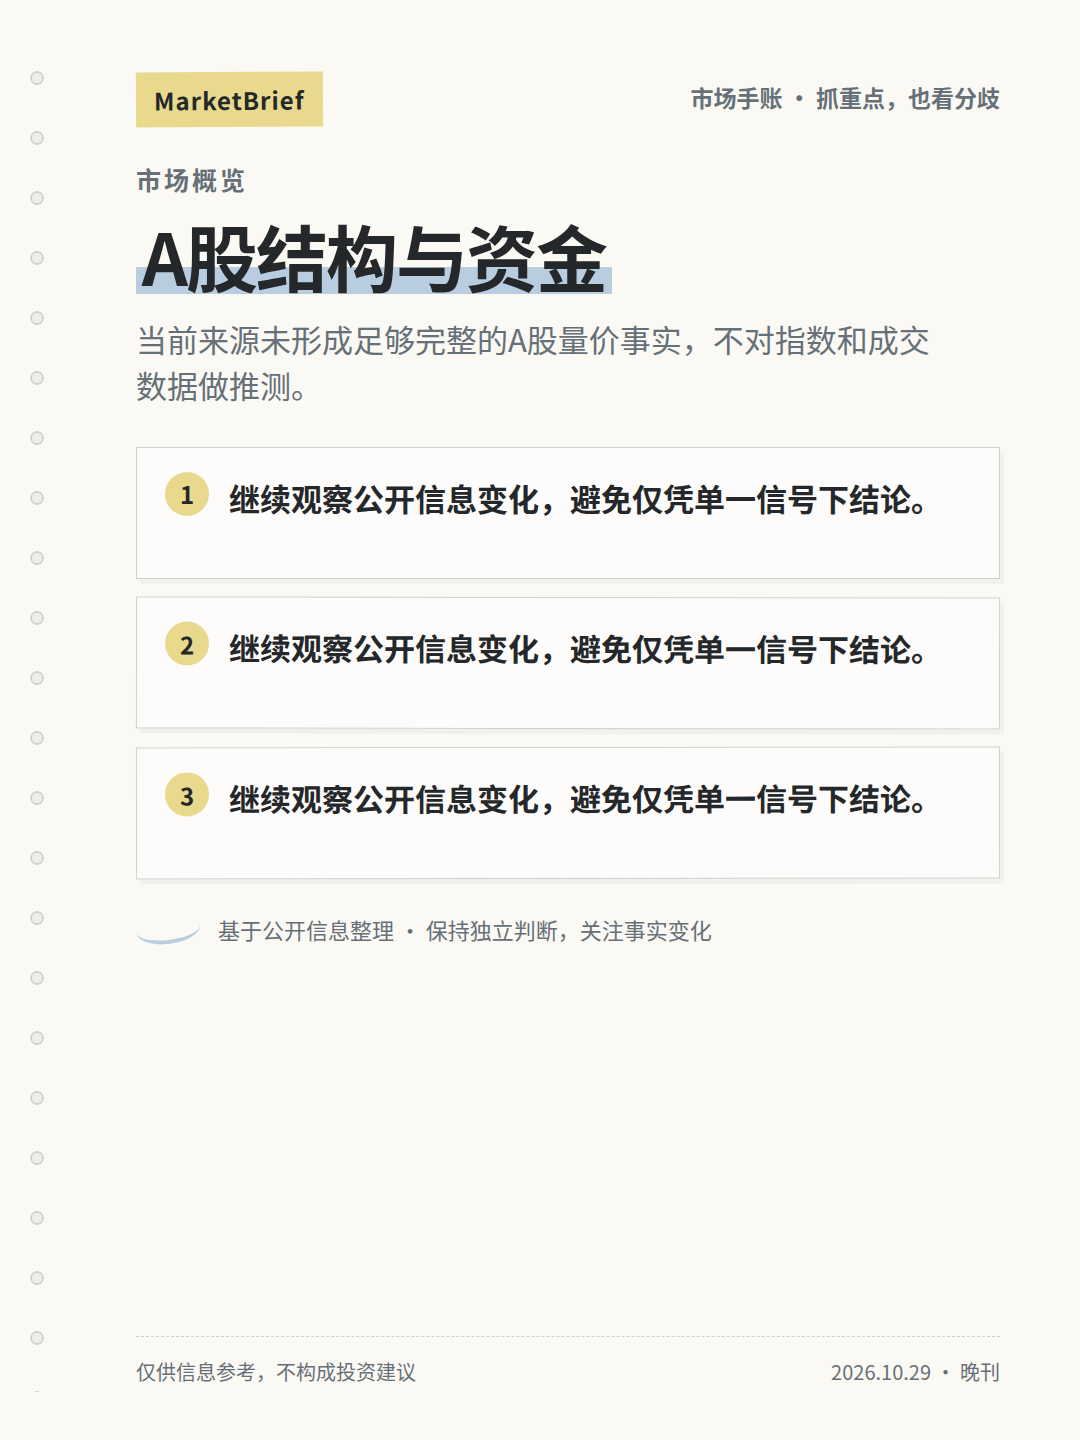
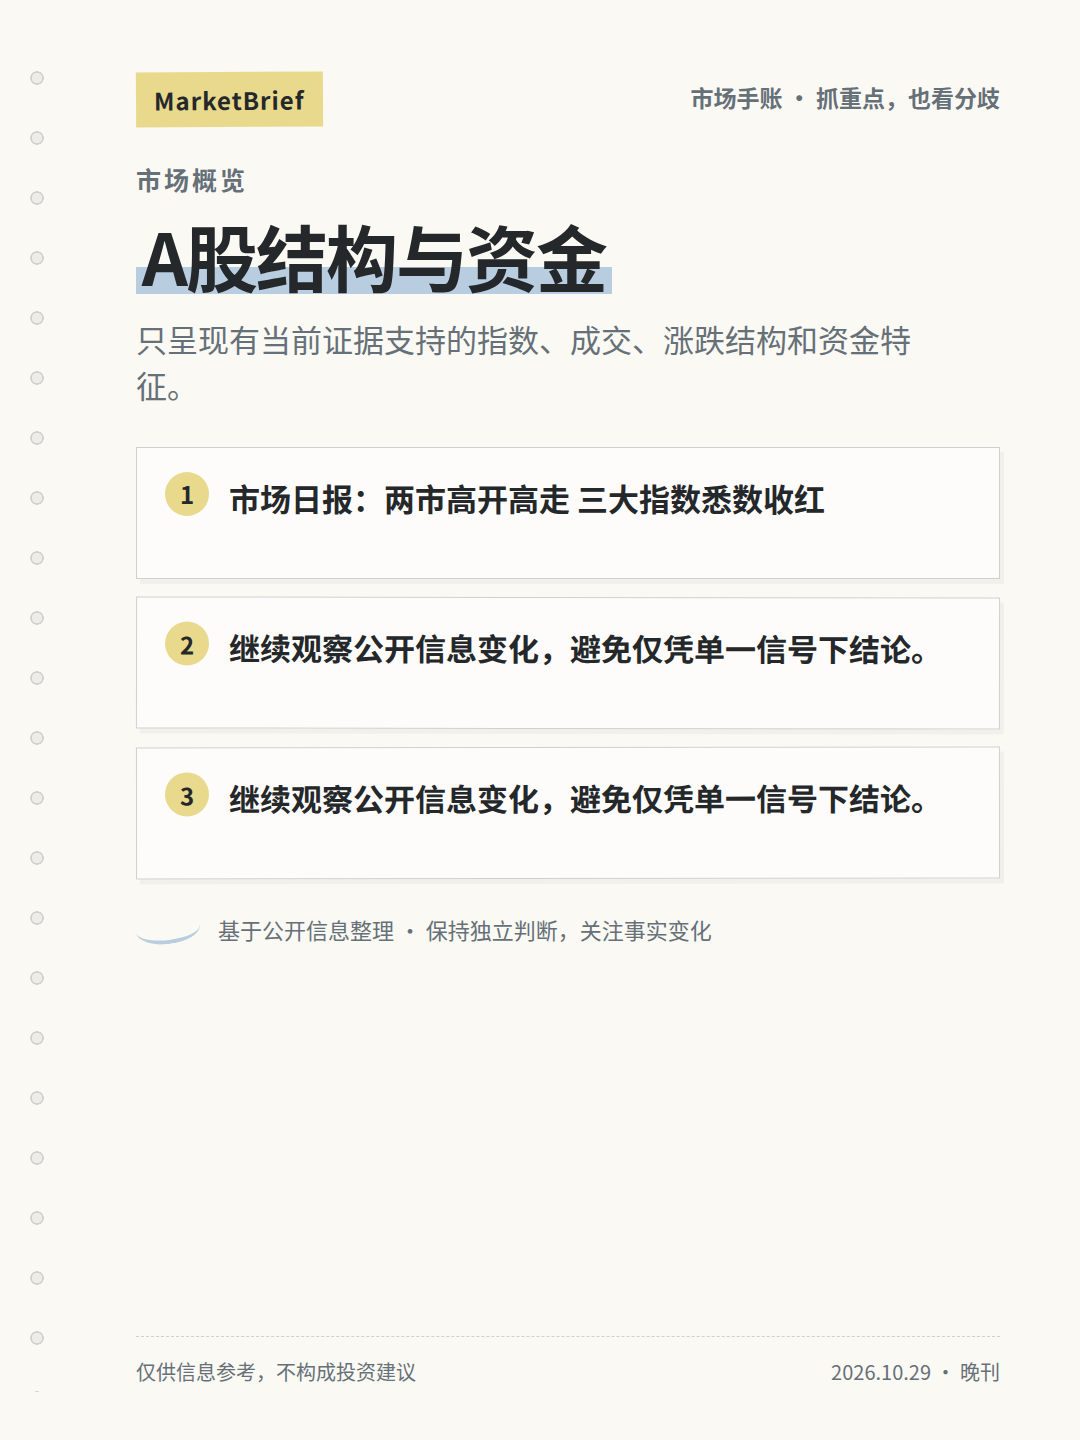
chore: MarketBrief: publish official-source notebook edition (rebased, retention-pruned)

Changed region(s): [[0.2139, 0.3125, 0.8556, 0.375], [0.1222, 0.2188, 0.8556, 0.2812]]

diff --git a/output/marketbrief/2026-10-29/pm/2026-10-29-pm-01.html b/output/marketbrief/2026-10-29/pm/2026-10-29-pm-01.html
@@ -26,9 +26,9 @@ footer{position:absolute;z-index:1;left:136px;right:80px;bottom:54px;border-top:
 <body><main data-layout-type="card" data-visual-style="notebook" data-visual-tone="serious">
 <div class="top"><span class="brand">MarketBrief</span><span class="tagline">市场手账 · 抓重点，也看分歧</span></div>
 <div class="kicker">今日简报</div>
-<h1><span>招财日报、美联储10月货币政策成焦点</span></h1>
-<div class="sub">晚刊基于3份有效来源分析，当前重点为招财日报、美联储10月货币政策。仅保留时效合格的公开信息，事实、研究观点与市场情绪分开呈现。</div>
-<div class="notes"><section class="note"><b>1</b><p>招财日报</p></section><section class="note"><b>2</b><p>晨会纪要</p></section><section class="note"><b>3</b><p>美联储10月货币政策会议点评与展望：按兵不动下鹰意未消，12月加息概率上升</p></section></div>
+<h1><span>乍暖还寒时、美联储议息会议成焦点</span></h1>
+<div class="sub">晚刊基于3份有效来源分析，当前重点为乍暖还寒时、美联储议息会议。仅保留时效合格的公开信息，事实、研究观点与市场情绪分开呈现。</div>
+<div class="notes"><section class="note"><b>1</b><p>乍暖还寒时，波动易放大</p></section><section class="note"><b>2</b><p>2026年10月份美联储议息会议点评：加息暂停信息中性，等待地缘局势发展的更多信号</p></section><section class="note"><b>3</b><p>市场日报：两市高开高走 三大指数悉数收红</p></section></div>
 <div class="margin"><span class="sketch"></span><span>基于公开信息整理 · 保持独立判断，关注事实变化</span></div>
 <footer><span>仅供信息参考，不构成投资建议</span><span>2026.10.29 · 晚刊</span></footer>
 </main></body></html>

diff --git a/output/marketbrief/2026-10-29/pm/2026-10-29-pm-03.html b/output/marketbrief/2026-10-29/pm/2026-10-29-pm-03.html
@@ -27,8 +27,8 @@ footer{position:absolute;z-index:1;left:136px;right:80px;bottom:54px;border-top:
 <div class="top"><span class="brand">MarketBrief</span><span class="tagline">市场手账 · 抓重点，也看分歧</span></div>
 <div class="kicker">市场概览</div>
 <h1><span>A股结构与资金</span></h1>
-<div class="sub">当前来源未形成足够完整的A股量价事实，不对指数和成交数据做推测。</div>
-<div class="notes"><section class="note"><b>1</b><p>继续观察公开信息变化，避免仅凭单一信号下结论。</p></section><section class="note"><b>2</b><p>继续观察公开信息变化，避免仅凭单一信号下结论。</p></section><section class="note"><b>3</b><p>继续观察公开信息变化，避免仅凭单一信号下结论。</p></section></div>
+<div class="sub">只呈现有当前证据支持的指数、成交、涨跌结构和资金特征。</div>
+<div class="notes"><section class="note"><b>1</b><p>市场日报：两市高开高走 三大指数悉数收红</p></section><section class="note"><b>2</b><p>继续观察公开信息变化，避免仅凭单一信号下结论。</p></section><section class="note"><b>3</b><p>继续观察公开信息变化，避免仅凭单一信号下结论。</p></section></div>
 <div class="margin"><span class="sketch"></span><span>基于公开信息整理 · 保持独立判断，关注事实变化</span></div>
 <footer><span>仅供信息参考，不构成投资建议</span><span>2026.10.29 · 晚刊</span></footer>
 </main></body></html>

diff --git a/output/marketbrief/2026-10-29/pm/2026-10-29-pm-02.html b/output/marketbrief/2026-10-29/pm/2026-10-29-pm-02.html
@@ -28,7 +28,7 @@ footer{position:absolute;z-index:1;left:136px;right:80px;bottom:54px;border-top:
 <div class="kicker">全球市场</div>
 <h1><span>今晚外部变量</span></h1>
 <div class="sub">只保留当前时效窗口内、已有公开信息支持的海外市场与宏观线索。</div>
-<div class="notes"><section class="note"><b>1</b><p>美联储10月货币政策会议点评与展望：按兵不动下鹰意未消，12月加息概率上升</p></section><section class="note"><b>2</b><p>2026年10月FOMC会议点评：10月FOMC：静待中期选举结果</p></section><section class="note"><b>3</b><p>宏观日报：美联储传“鸽”声，关注“繁荣”的开启</p></section></div>
+<div class="notes"><section class="note"><b>1</b><p>2026年10月份美联储议息会议点评：加息暂停信息中性，等待地缘局势发展的更多信号</p></section><section class="note"><b>2</b><p>10月FOMC会议点评：再探沃什底色</p></section><section class="note"><b>3</b><p>10月美联储议息会议点评：美联储维持利率不变，年内加息预期仍强</p></section></div>
 <div class="margin"><span class="sketch"></span><span>基于公开信息整理 · 保持独立判断，关注事实变化</span></div>
 <footer><span>仅供信息参考，不构成投资建议</span><span>2026.10.29 · 晚刊</span></footer>
 </main></body></html>

diff --git a/output/marketbrief/2026-10-29/pm/2026-10-29-pm-06.html b/output/marketbrief/2026-10-29/pm/2026-10-29-pm-06.html
@@ -28,7 +28,7 @@ footer{position:absolute;z-index:1;left:136px;right:80px;bottom:54px;border-top:
 <div class="kicker">风险提示</div>
 <h1><span>后续变量仍需确认</span></h1>
 <div class="sub">只保留来源自身限制和当前证据中的风险项，不额外推演。</div>
-<div class="notes"><section class="note"><b>1</b><p>美联储10月货币政策会议点评与展望：按兵不动下鹰意未消，12月加息概率上升</p></section><section class="note"><b>2</b><p>继续观察公开信息变化，避免仅凭单一信号下结论。</p></section><section class="note"><b>3</b><p>继续观察公开信息变化，避免仅凭单一信号下结论。</p></section></div>
+<div class="notes"><section class="note"><b>1</b><p>乍暖还寒时，波动易放大</p></section><section class="note"><b>2</b><p>10月美联储议息会议点评：美联储维持利率不变，年内加息预期仍强</p></section><section class="note"><b>3</b><p>工业母机行业深度报告：市场持续增长，政策及技术推动行业发展</p></section></div>
 <div class="margin"><span class="sketch"></span><span>基于公开信息整理 · 保持独立判断，关注事实变化</span></div>
 <footer><span>仅供信息参考，不构成投资建议</span><span>2026.10.29 · 晚刊</span></footer>
 </main></body></html>

diff --git a/output/marketbrief/2026-10-29/pm/2026-10-29-pm-04.html b/output/marketbrief/2026-10-29/pm/2026-10-29-pm-04.html
@@ -28,7 +28,7 @@ footer{position:absolute;z-index:1;left:136px;right:80px;bottom:54px;border-top:
 <div class="kicker">热点追踪</div>
 <h1><span>主线与事件交叉验证</span></h1>
 <div class="sub">优先采用官方与研究信息，社区热度只作为辅助信号。</div>
-<div class="notes"><section class="note"><b>1</b><p>关于重大经营合同中标的公告</p></section><section class="note"><b>2</b><p>关于2026年前三季度计提信用减值损失的公告</p></section><section class="note"><b>3</b><p>2026年三季度报告</p></section></div>
+<div class="notes"><section class="note"><b>1</b><p>关于重大经营活动中标的公告</p></section><section class="note"><b>2</b><p>重组报告书（草案）（修订稿）</p></section><section class="note"><b>3</b><p>宇威国际资产评估（深圳）有限公司关于深圳证券交易所《关于中山联合光电科技股份有限公司发行股份购买资产并募集配套资金申请的审核问询函》资产评估相关问题回复之核查意见</p></section></div>
 <div class="margin"><span class="sketch"></span><span>基于公开信息整理 · 保持独立判断，关注事实变化</span></div>
 <footer><span>仅供信息参考，不构成投资建议</span><span>2026.10.29 · 晚刊</span></footer>
 </main></body></html>

diff --git a/output/marketbrief/2026-10-29/pm/2026-10-29-pm-05.html b/output/marketbrief/2026-10-29/pm/2026-10-29-pm-05.html
@@ -28,7 +28,7 @@ footer{position:absolute;z-index:1;left:136px;right:80px;bottom:54px;border-top:
 <div class="kicker">事实分歧</div>
 <h1><span>事实、观点与情绪分开看</span></h1>
 <div class="sub">先看已确认事实，再看研究判断和市场情绪是否一致。</div>
-<div class="notes"><section class="note"><b>1</b><p>关于重大经营合同中标的公告</p></section><section class="note"><b>2</b><p>招财日报</p></section><section class="note"><b>3</b><p>继续观察公开信息变化，避免仅凭单一信号下结论。</p></section></div>
+<div class="notes"><section class="note"><b>1</b><p>关于重大经营活动中标的公告</p></section><section class="note"><b>2</b><p>乍暖还寒时，波动易放大</p></section><section class="note"><b>3</b><p>继续观察公开信息变化，避免仅凭单一信号下结论。</p></section></div>
 <div class="margin"><span class="sketch"></span><span>基于公开信息整理 · 保持独立判断，关注事实变化</span></div>
 <footer><span>仅供信息参考，不构成投资建议</span><span>2026.10.29 · 晚刊</span></footer>
 </main></body></html>

diff --git a/output/marketbrief/2026-10-29/pm/brief.md b/output/marketbrief/2026-10-29/pm/brief.md
@@ -1,40 +1,43 @@
-# 招财日报、美联储10月货币政策成焦点
+# 乍暖还寒时、美联储议息会议成焦点
 
-> 晚刊基于3份有效来源分析，当前重点为招财日报、美联储10月货币政策。仅保留时效合格的公开信息，事实、研究观点与市场情绪分开呈现。
+> 晚刊基于3份有效来源分析，当前重点为乍暖还寒时、美联储议息会议。仅保留时效合格的公开信息，事实、研究观点与市场情绪分开呈现。
 
 ## 今晚外部变量
 
 只保留当前时效窗口内、已有公开信息支持的海外市场与宏观线索。
 
-- 美联储10月货币政策会议点评与展望：按兵不动下鹰意未消，12月加息概率上升
-- 2026年10月FOMC会议点评：10月FOMC：静待中期选举结果
-- 宏观日报：美联储传“鸽”声，关注“繁荣”的开启
+- 2026年10月份美联储议息会议点评：加息暂停信息中性，等待地缘局势发展的更多信号
+- 10月FOMC会议点评：再探沃什底色
+- 10月美联储议息会议点评：美联储维持利率不变，年内加息预期仍强
 
 ## A股结构与资金
 
-当前来源未形成足够完整的A股量价事实，不对指数和成交数据做推测。
+只呈现有当前证据支持的指数、成交、涨跌结构和资金特征。
 
+- 市场日报：两市高开高走 三大指数悉数收红
 
 ## 主线与事件交叉验证
 
 优先采用官方与研究信息，社区热度只作为辅助信号。
 
-- 关于重大经营合同中标的公告
-- 关于2026年前三季度计提信用减值损失的公告
-- 2026年三季度报告
+- 关于重大经营活动中标的公告
+- 重组报告书（草案）（修订稿）
+- 宇威国际资产评估（深圳）有限公司关于深圳证券交易所《关于中山联合光电科技股份有限公司发行股份购买资产并募集配套资金申请的审核问询函》资产评估相关问题回复之核查意见
 
 ## 事实、观点与情绪分开看
 
 先看已确认事实，再看研究判断和市场情绪是否一致。
 
-- 关于重大经营合同中标的公告
-- 招财日报
+- 关于重大经营活动中标的公告
+- 乍暖还寒时，波动易放大
 
 ## 后续变量仍需确认
 
 只保留来源自身限制和当前证据中的风险项，不额外推演。
 
-- 美联储10月货币政策会议点评与展望：按兵不动下鹰意未消，12月加息概率上升
+- 乍暖还寒时，波动易放大
+- 10月美联储议息会议点评：美联储维持利率不变，年内加息预期仍强
+- 工业母机行业深度报告：市场持续增长，政策及技术推动行业发展
 
 ## 信息口径
 
@@ -45,5 +48,5 @@
 本文仅作公开信息整理与讨论，不构成任何投资建议。
 
 刊期：2026-10-29 晚刊  
-生成时间：2026-10-29T13:54:15+08:00  
+生成时间：2026-10-29T20:53:48+08:00  
 模型：`Editor-Air` · 调用 0 次 · Token 0

diff --git a/output/marketbrief/2026-10-29/pm/publish.md b/output/marketbrief/2026-10-29/pm/publish.md
@@ -1,7 +1,7 @@
 # 发布文案
 
-**标题**：招财日报、美联储10月货币政策成焦点
+**标题**：乍暖还寒时、美联储议息会议成焦点
 
-**引言**：晚刊基于3份有效来源分析，当前重点为招财日报、美联储10月货币政策。仅保留时效合格的公开信息，事实、研究观点与市场情绪分开呈现。
+**引言**：晚刊基于3份有效来源分析，当前重点为乍暖还寒时、美联储议息会议。仅保留时效合格的公开信息，事实、研究观点与市场情绪分开呈现。
 
 **话题标签**：#市场观察 #市场主线 #行业轮动 #资金情绪 #风险观察
